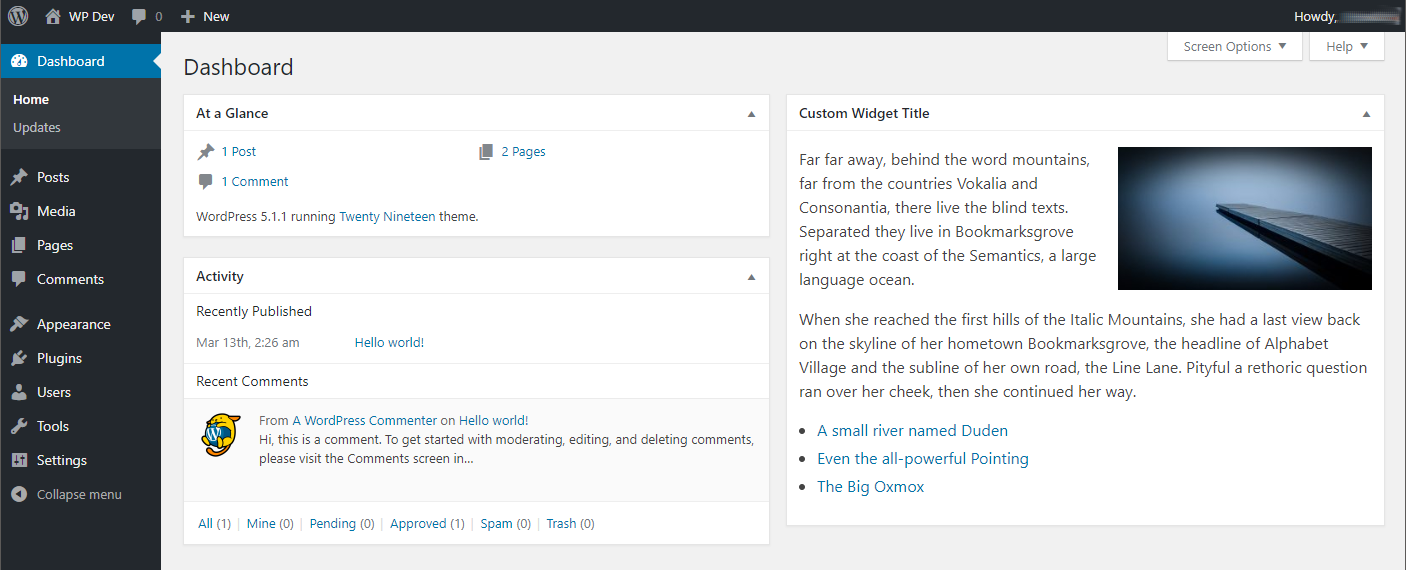
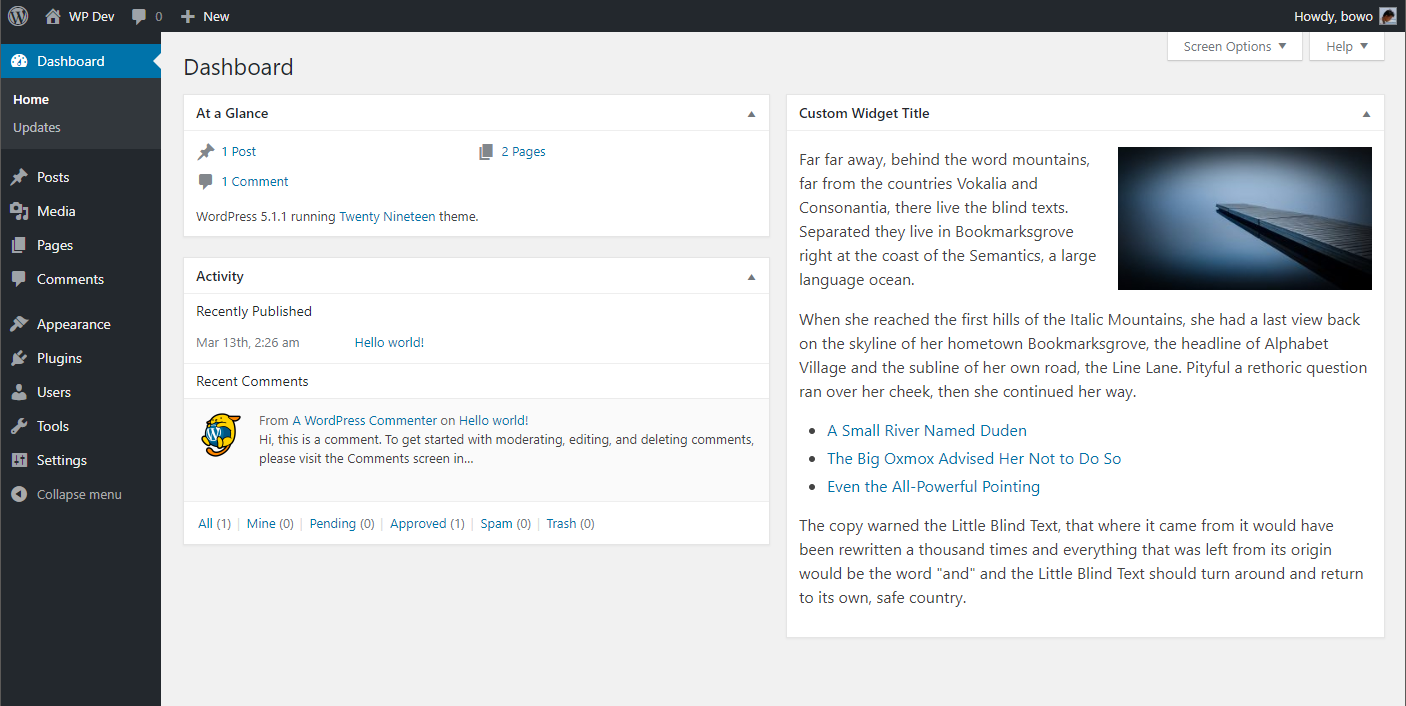
Move settings to a dedicated sub-menu and page. Update screenshots.

diff --git a/admin/css/bw-simple-dashboard-widget-admin.css b/admin/css/bw-simple-dashboard-widget-admin.css
@@ -19,5 +19,12 @@
 
 #custom_dash_widget ul {
 	list-style: disc;
-	padding-left: 18px;
+	padding-left: 28px;
+}
+
+.dash-widget-options input[type=text] {
+	width: 100%;
+	padding: 8px 10px;
+	font-size: 16px;
+	margin-bottom: 1.5em;
 }

diff --git a/admin/class-bw-simple-dashboard-widget-admin.php b/admin/class-bw-simple-dashboard-widget-admin.php
@@ -101,39 +101,96 @@ class Bw_Simple_Dashboard_Widget_Admin {
 	}
 
 	/**
+	 * Add settings as sub-menu of Settings menu
+	 */
+
+	public function bw_custom_dash_widget_page() {
+
+		add_options_page( 
+			'Custom Dashboard Widget Settings', 
+			'Dashboard Widget', 
+			'manage_options', 
+			'cdw_settings', 
+			array( $this, 'bw_cdw_settings_html' )
+		);
+
+	}
+
+	/**
 	 * Add settings section at the bottom of Settings >> General page
 	 */
 
 	public function bw_custom_dash_widget_settings() {
 
-		register_setting( 'general', 'bw_cdw_title' );
-		register_setting( 'general', 'bw_cdw_content' );
+		register_setting( 'bw_cdw', 'bw_cdw_title' );
+		register_setting( 'bw_cdw', 'bw_cdw_content' );
 
+		// Add settings at the bottom of Settings >> General page
 		add_settings_section( 
-			'bw_cdw_settings', 
-			'', 
-			array( $this, 'bw_cdw_settings_view'), 
-			'general' 
+			'bw_cdw_settings_section', 
+			'Custom Dashboard Widget', 
+			array( $this, 'bw_cdw_settings_section_cb'), 
+			'bw_cdw' 
 		);
 
-//		add_settings_field(
-//			'bw_cdw_content_editor',
-//			'',
-//			array( $this, 'bw_cdw_content_callback' ),
-//			'general',
-//			'bw_cdw_settings'
-//		);
+		// Add settings field for widget title
+		add_settings_field(
+			'cdw_field_title',
+			'Widget Title',
+			array( $this, 'bw_cdw_field_title_cb'),
+			'bw_cdw',
+			'bw_cdw_settings_section'
+		);
+
+		// Add settings field for widget content
+		add_settings_field(
+			'cdw_field_content',
+			'Widget Content',
+			array( $this, 'bw_cdw_field_content_cb'),
+			'bw_cdw',
+			'bw_cdw_settings_section'
+		);
 
 	}
 
-//		function bw_cdw_content_callback() {
-//		}
+	public function bw_cdw_settings_section_cb() {
 
+		echo '<p>Input the title and content for the widget below.</p>';
+
+	}
+
+	public function bw_cdw_field_title_cb() {
+
+		$title = get_option('bw_cdw_title');
+
+		echo '<input type="text" name="bw_cdw_title" value="'.esc_attr( $title ).'"';
+		
+	}
+
+	public function bw_cdw_field_content_cb() {
+		
+		$content = get_option('bw_cdw_content');
+
+		$args = array(
+			'wpautop' => false,
+		    'textarea_rows' => 20,
+		    // 'teeny' => true,
+		    // 'quicktags' => false,
+		);
+
+		wp_editor( $content, 'bw_cdw_content', $args );
+
+	}
 
 	/**
 	* Display options form for the settings section
 	*/
-	public function bw_cdw_settings_view() {
+	public function bw_cdw_settings_html() {
+
+		// Check user capabilities
+		if ( ! current_user_can( 'manage_options' ) ) {
+		return;
+		}
 
 		include 'partials/bw-simple-dashboard-widget-admin-settings.php';
 

diff --git a/admin/partials/bw-simple-dashboard-widget-admin-settings.php b/admin/partials/bw-simple-dashboard-widget-admin-settings.php
@@ -1,54 +1,34 @@
 <?php
 
 /**
- * Provide a admin area view for the plugin
- *
- * This file is used to markup the admin-facing aspects of the plugin.
- *
- * @link       https://bowo.io
- * @since      2.1.0
- *
- * @package    Bw_Simple_Dashboard_Widget
- * @subpackage Bw_Simple_Dashboard_Widget/admin/partials
- */
+* Provide a admin area view for the plugin
+*
+* This file is used to markup the admin-facing aspects of the plugin.
+*
+* @link       https://bowo.io
+* @since      2.1.0
+*
+* @package    Bw_Simple_Dashboard_Widget
+* @subpackage Bw_Simple_Dashboard_Widget/admin/partials
+*/
 ?>
 
 <!-- This file should primarily consist of HTML with a little bit of PHP. -->
 
-<table class="form-table">
-	<tbody>
-		<tr>
-			<th scope="row">
-				Custom Dashboard Widget
-			</th>
-			<td>
-				<?php
+<div class="wrap dash-widget-options">
 
-				$title = get_option('bw_cdw_title');
+	<form action="options.php" method="post">
 
-				?>
+		<?php
 
-				<input type="text" name="bw_cdw_title" value="<?php echo isset( $title ) ? esc_attr( $title ) : '' ?>">
-				<p class="description">Title of the widget</p>
-				<p>&nbsp;</p>
+		settings_fields( 'bw_cdw' );
 
-				<?php
+		do_settings_sections( 'bw_cdw' );
 
-				$content = get_option('bw_cdw_content');
+		submit_button( 'Save Settings' );
 
-				$args = array(
-					'wpautop' => false,
-				    'textarea_rows' => 15,
-				    // 'teeny' => true,
-				    // 'quicktags' => false,
-				);
+		?>
 
-				wp_editor( $content, 'bw_cdw_content', $args );
+	</form>
 
-				?>
-				<p class="description">Content of the widget</p>
-
-			</td>
-		</tr>
-	</tbody>
-</table>
+</div>

diff --git a/includes/class-bw-simple-dashboard-widget.php b/includes/class-bw-simple-dashboard-widget.php
@@ -157,6 +157,7 @@ class Bw_Simple_Dashboard_Widget {
 		$this->loader->add_action( 'admin_enqueue_scripts', $plugin_admin, 'enqueue_styles' );
 		$this->loader->add_action( 'admin_enqueue_scripts', $plugin_admin, 'enqueue_scripts' );
 		$this->loader->add_action( 'wp_dashboard_setup', $plugin_admin, 'bw_custom_dash_widget');
+		$this->loader->add_action( 'admin_menu', $plugin_admin, 'bw_custom_dash_widget_page' );
 		$this->loader->add_action( 'admin_init', $plugin_admin, 'bw_custom_dash_widget_settings' );
 
 	}
